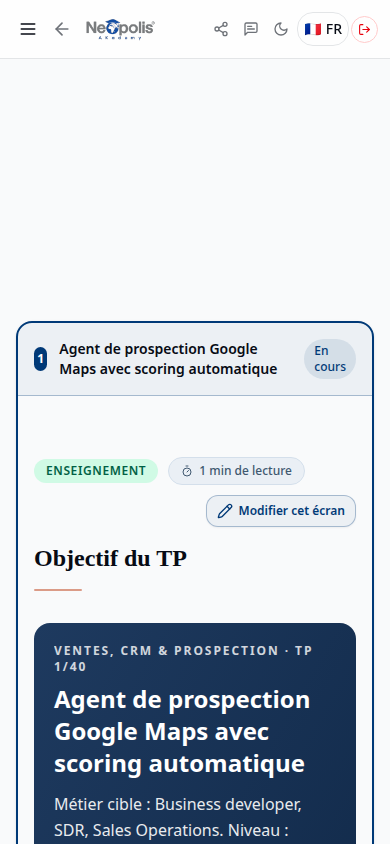
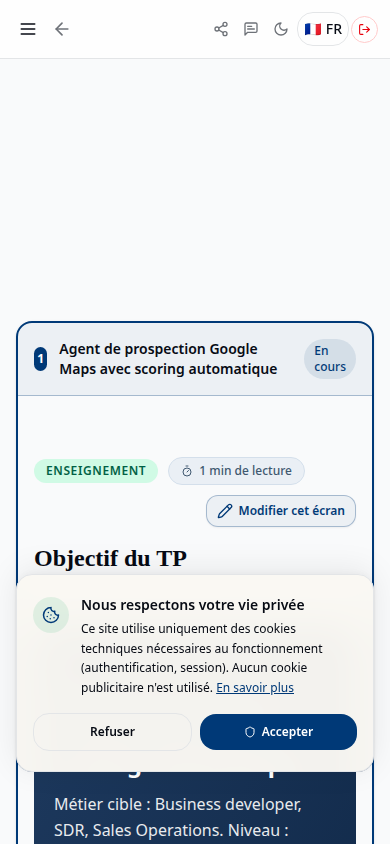
Checkpoint: Preuves de production ajoutées pour « IA appliquée aux métiers - TP » : le domaine public sert les 40 TP, huit sous-catégories représentatives sont contrôlées desktop/mobile sans overflow, et la carte/fichier de rubrique affichent 240 activités et 280 exercices interactifs. La sonde de m

Changed region(s): [[0.0308, 0.7085, 0.9231, 0.9242], [0.2154, 0.0, 0.4, 0.0616], [0.9538, 0.7085, 0.9846, 0.8934]]

diff --git a/todo.md b/todo.md
@@ -5,8 +5,8 @@
 - [x] Ajouter la rubrique, ses huit sous-catégories métier et les 40 TP composés exclusivement à partir de blocs Neopolis standards — générateur canonique, index métier et regroupement apprenant ajoutés
 - [x] Ajouter préparation d’environnement sûre, ressources sources, mini-projets, checkpoints, quiz avec corrections, supports fictifs et indexation recherche — 40 supports téléversés dans la médiathèque, liens source visibles en nouvel onglet, index de 3 772 entrées régénéré
 - [x] Contrôler chaque lot de cinq TP, exécuter la QA de publication et vérifier les parcours publiés sur desktop et mobile — huit contrôles de lot réussis, tests dédiés, QA complète 6/6, huit catégories rendues sans overflow desktop/mobile et interactions du TP pilote rejouées
-- [ ] Publier réellement la rubrique « IA appliquée aux métiers - TP » puis vérifier sur le domaine public au moins un TP représentatif par sous-catégorie en desktop et mobile
-- [ ] Exécuter un contrôle de production des cartes, fiches et parcours de la nouvelle rubrique, puis archiver les preuves avant la clôture
+- [x] Publier réellement la rubrique « IA appliquée aux métiers - TP » puis vérifier sur le domaine public au moins un TP représentatif par sous-catégorie en desktop et mobile — checkpoint `9a6d91ae` déployé ; huit TP représentatifs testés sur `akademy.neodev.click`, sans overflow desktop ni mobile 390×844
+- [x] Exécuter un contrôle de production des cartes, fiches et parcours de la nouvelle rubrique, puis archiver les preuves avant la clôture — carte et fiche agrégées confirmées à 240 activités et 280 exercices interactifs ; ressource source, checkpoint, mini-projet, correction post-réponse et quiz/tri du TP 01 rejoués
 - [ ] Contrôle global transversal DataCamp reporté sur instruction utilisateur du 29 août 2026 ; ne pas l’exécuter dans la présente clôture rapide
 - [x] Empêcher la bannière de consentement aux cookies de recouvrir l’accusé de réception d’une communication importante, sans masquer aucun des deux parcours obligatoires — bannière sous le dialogue (`z-40` contre `z-50`), actions cookies visibles mais volontairement bloquées sous la communication obligatoire, CTA d’accusé visible et au premier plan desktop/mobile
 - [x] Créer un contrôle E2E authentifié qui force simultanément un communiqué important en attente et l’absence de consentement, puis vérifie sur desktop et mobile la case et le bouton de confirmation — les deux vues confirment dialogue, consentement, accusé et CTA visibles, en viewport et au premier plan

diff --git a/docs/ia-appliquee-metiers-qa-notes.md b/docs/ia-appliquee-metiers-qa-notes.md
@@ -5,3 +5,7 @@
 Les captures exécutées le 29 août 2026 montrent que le lecteur affiche le titre canonique, le contexte métier, les compétences acquises et les étapes du TP dans les blocs standards de la plateforme. En vue desktop, la navigation latérale présente les six écrans du parcours. En vue mobile 390×844, le header est compact, la carte de TP tient dans le viewport et aucun débordement horizontal n’est observé par la sonde.
 
 Les captures ont été effectuées avec le compte administrateur de QA pour rendre vérifiables les huit sous-catégories sans dépendre du déverrouillage entre cours. Les contrôles d’interactions ont ensuite été rejoués avec le compte apprenant de QA ; celui-ci étant déjà en mode révision pour le TP pilote, le rapport distingue explicitement cet état autorisé de la vérification unitaire des verrous séquentiels.
+
+## Contrôle de production
+
+Le checkpoint `9a6d91ae` a été confirmé sur `https://akademy.neodev.click`. Les huit TP représentatifs 01, 07, 11, 17, 22, 27, 32 et 37 se rendent sans débordement horizontal en desktop et à 390×844. La sonde de production a confirmé le lien source en nouvel onglet, le checkpoint avec feedback après réponse, la zone de preuve du mini-projet avec correction post-soumission et le quiz final avec quatre QCM et un tri. La fiche et la carte de la rubrique affichent les métriques agrégées calculées : 240 activités et 280 exercices interactifs.
